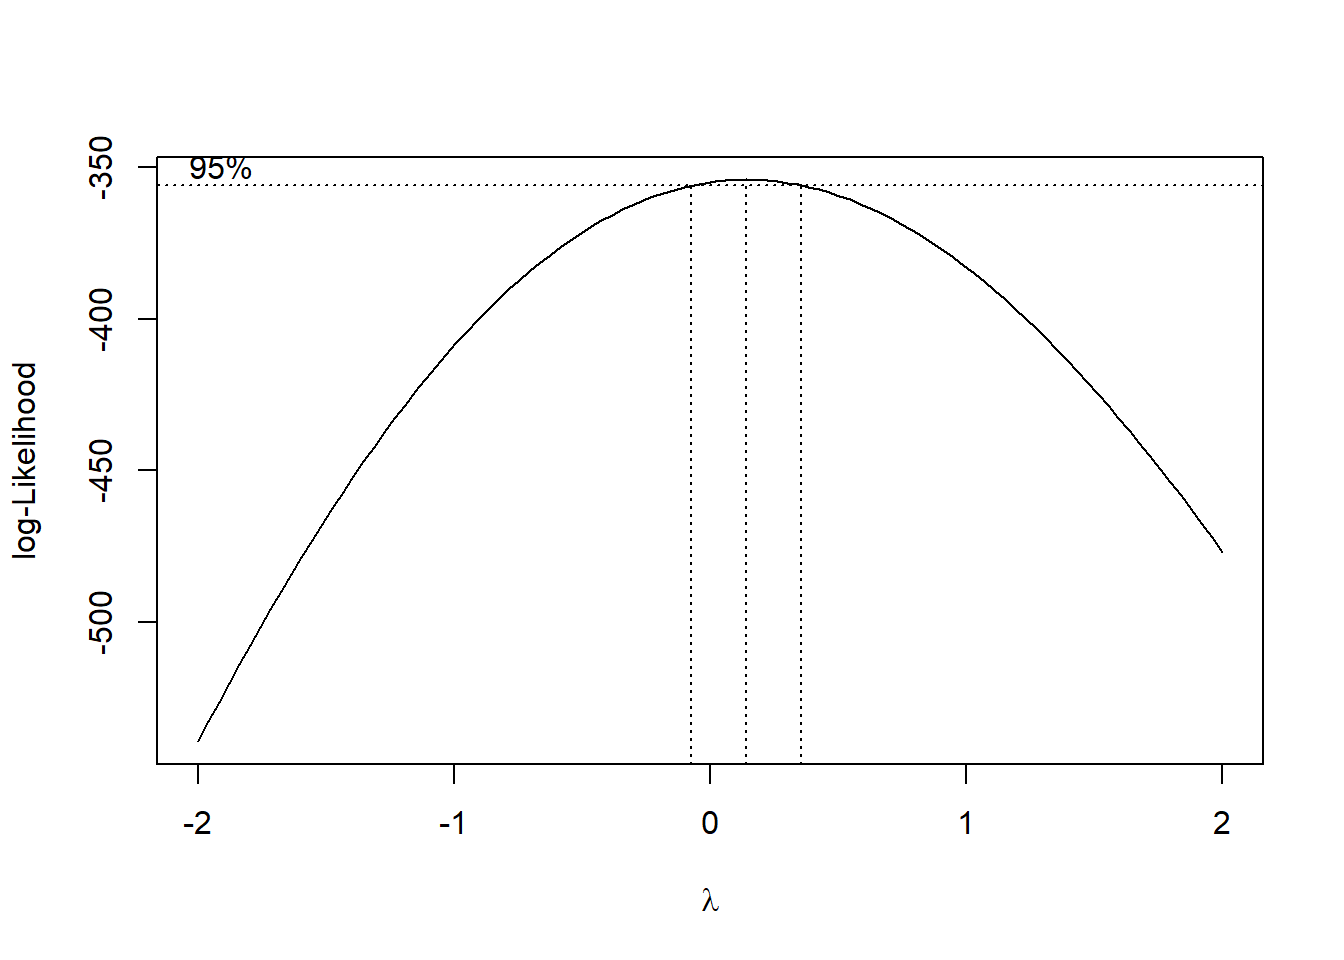
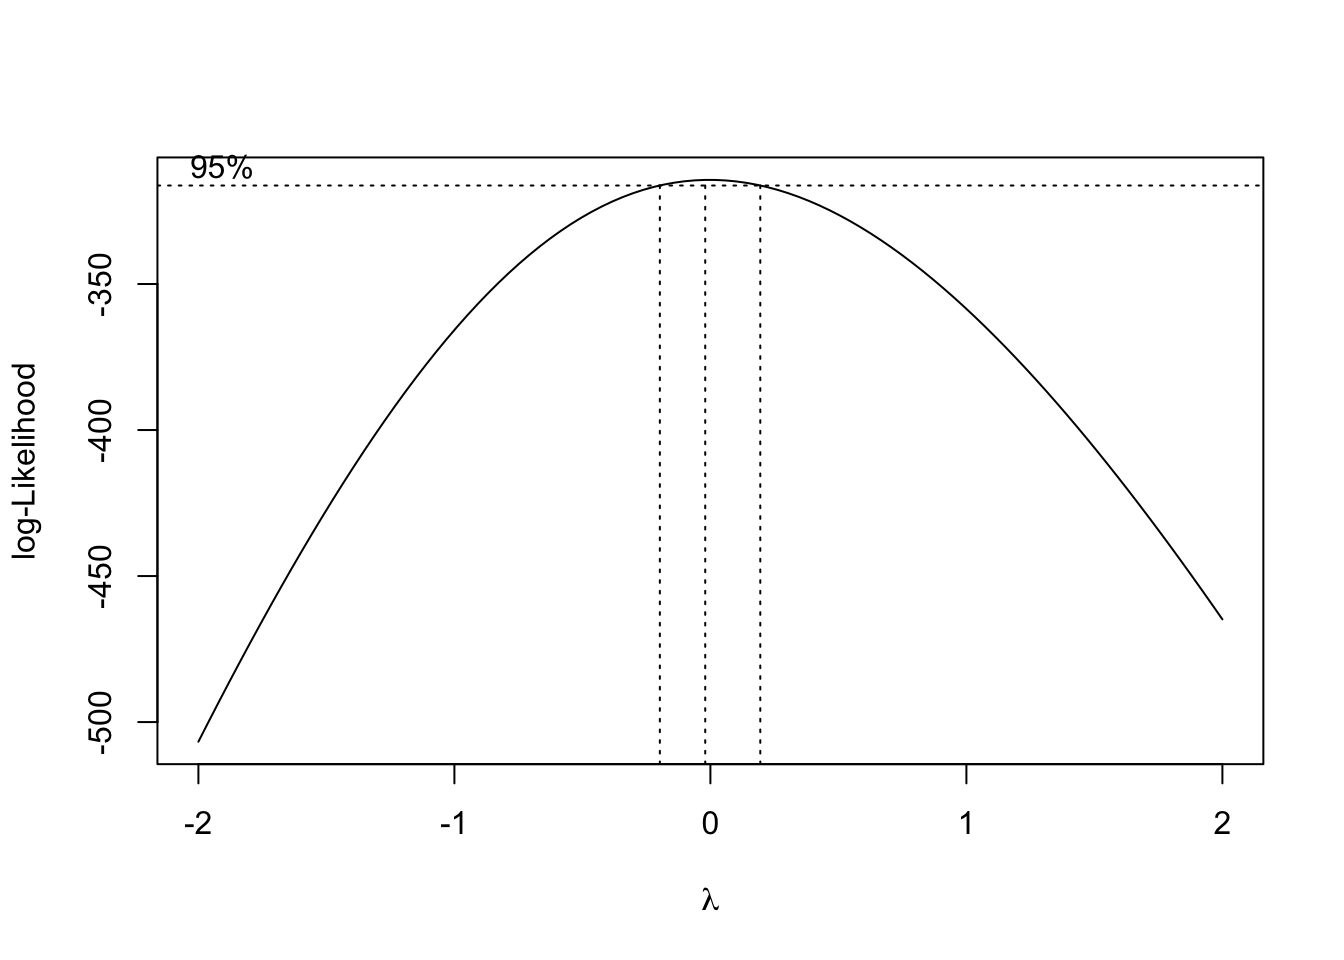
revised crime rate regression analysis, removed lasso, added more diagnostics and discussion

diff --git a/Crime_Rate_Analysis.html b/Crime_Rate_Analysis.html
@@ -11,9 +11,9 @@
 
 
 
-<title>SES Analysis</title>
+<title>Crime Rate Analysis</title>
 
-<script src="site_libs/header-attrs-2.25/header-attrs.js"></script>
+<script src="site_libs/header-attrs-2.24/header-attrs.js"></script>
 <script src="site_libs/jquery-3.6.0/jquery-3.6.0.min.js"></script>
 <meta name="viewport" content="width=device-width, initial-scale=1" />
 <link href="site_libs/bootstrap-3.3.5/css/flatly.min.css" rel="stylesheet" />
@@ -394,7 +394,7 @@ div.tocify {
 
 
 
-<h1 class="title toc-ignore">SES Analysis</h1>
+<h1 class="title toc-ignore">Crime Rate Analysis</h1>
 
 </div>
 
@@ -448,20 +448,17 @@ ses_df = nypd_ses_df |&gt;
 ses_df = ses_df |&gt; merge(neighbor_ses, by = c(&quot;year&quot;, &quot;neighborhood&quot;)) |&gt; 
   mutate(crime_rate = (crime_num/pop_num) * 100,000) |&gt; 
   left_join(neighbor_rent, by = &quot;neighborhood&quot;)</code></pre>
-<div
-id="are-crime-rates-associated-with-poverty-income-and-educational-level"
-class="section level2">
-<h2>Are crime rates associated with poverty, income, and educational
-level?</h2>
-<div
-id="visualizing-potential-association-between-poverty-income-and-educational-level-with-crime-rate"
-class="section level3">
-<h3>Visualizing potential association between poverty, income, and
-educational level with crime rate:</h3>
+<div id="linear-regression" class="section level2">
+<h2>Linear Regression</h2>
+<div id="visualization-of-potential-association" class="section level3">
+<h3>Visualization of potential association</h3>
+<p>We start by visualizing potential association between factors that we
+hypothesize to impact crime rate, these are poverty, unemployment,
+income, and education.</p>
 <pre class="r"><code>eda_plot1 = ses_df |&gt; ggplot(aes(x = pop_pov_pct, y = crime_rate)) +
   geom_point() +  
   geom_smooth(method = &quot;lm&quot;, se = FALSE, color = &quot;blue&quot;) +
-  labs(title = &quot;Population in Poverty vs. Crime Rate&quot;)
+  labs(title = &quot;% below poverty threshold vs. Crime Rate&quot;)
 
 eda_plot2 = ses_df |&gt; ggplot(aes(x = hh_inc_med_adj, y = crime_rate)) +
   geom_point() + 
@@ -471,12 +468,12 @@ eda_plot2 = ses_df |&gt; ggplot(aes(x = hh_inc_med_adj, y = crime_rate)) +
 eda_plot3 = ses_df |&gt; ggplot(aes(x = pop16_unemp_pct, y = crime_rate)) +
   geom_point() + 
   geom_smooth(method = &quot;lm&quot;, se = FALSE, color = &quot;blue&quot;) +
-  labs(title = &quot;Population Unemployment Percentage vs. Crime Rate&quot;)
+  labs(title = &quot;% umployed vs. Crime Rate&quot;)
 
 eda_plot4 = ses_df |&gt; ggplot(aes(x = pop_edu_nohs_pct, y = crime_rate)) +
   geom_point() + 
   geom_smooth(method = &quot;lm&quot;, se = FALSE, color = &quot;blue&quot;) +
-  labs(title = &quot;Population with No High School Education vs. Crime Rate&quot;)
+  labs(title = &quot;% without High School Education vs. Crime Rate&quot;)
 
 gridExtra::grid.arrange(
   eda_plot1, eda_plot2, eda_plot3, eda_plot4, ncol = 2)</code></pre>
@@ -487,11 +484,8 @@ association between unemployment and lack of education with crime rate,
 and a negative association between median household income and crime
 rate.</p>
 </div>
-<div
-id="we-would-like-to-fit-a-linear-model-to-use-these-four-ses-indicators-as-predictors-for-crime-rate-outcome-in-a-specific-neighborhood."
-class="section level3">
-<h3>We would like to fit a linear model to use these four SES indicators
-as predictors for crime rate outcome in a specific neighborhood.</h3>
+<div id="data-transformation-for-mlr" class="section level3">
+<h3>Data transformation for MLR</h3>
 <p>Let’s first visualize the distribution of crime rate:</p>
 <pre class="r"><code>ses_df |&gt; ggplot(aes(x = crime_rate)) +
   geom_histogram(alpha = 0.8, color = &quot;white&quot;) + 
@@ -500,97 +494,158 @@ as predictors for crime rate outcome in a specific neighborhood.</h3>
     y = &quot;Count&quot;,
     title = &quot;Distribution of Crime Rate by Neighborhoods&quot;)</code></pre>
 <p><img src="Crime_Rate_Analysis_files/figure-html/unnamed-chunk-3-1.png" width="672" /></p>
-<p>We can use Box-Cox Transformation to transform the data for linear
-fit</p>
-<pre class="r"><code>initial_fit = lm(crime_rate ~ pop_pov_pct + hh_inc_med_adj + pop16_unemp_pct + pop_edu_nohs_pct, data = ses_df)
+<p>Since the data is slightly right-skewed, we can use the Box-Cox
+Transformation to transform the data for linear fit</p>
+<pre class="r"><code>initial_fit = lm(crime_rate ~ pop_pov_pct + hh_inc_med_adj + pop16_unemp_pct + pop_edu_nohs_pct + pop_race_asian_pct + pop_race_black_pct + pop_race_hisp_pct + pop_race_white_pct + pop_foreign_pct, data = ses_df)
 
 MASS::boxcox(initial_fit)</code></pre>
 <p><img src="Crime_Rate_Analysis_files/figure-html/unnamed-chunk-4-1.png" width="672" /></p>
 <p>From the Box-Cox Transformation, log-transformation seems to be the
 best option. We will perform a log transformation on crime rate and use
 this as the predictor.</p>
+</div>
+<div id="model-fitting" class="section level3">
+<h3>Model fitting</h3>
+<p>To achieve the best model, we will use a “manual” backward
+elimination approach: first by fitting a MLR with all possible factors,
+and gradually remove factors that are not significant.</p>
 <pre class="r"><code>ses_df = ses_df |&gt; mutate(
   log_crime_rate = log(crime_rate)
 )
 
-log_fit = lm(log_crime_rate ~ pop_pov_pct + hh_inc_med_adj + pop16_unemp_pct + pop_edu_nohs_pct, data = ses_df)
+log_fit = lm(log_crime_rate ~ pop_pov_pct + hh_inc_med_adj + pop16_unemp_pct + pop_edu_nohs_pct + pop_race_asian_pct + pop_race_black_pct + pop_race_hisp_pct + pop_race_white_pct + pop_foreign_pct, data = ses_df)
 
-broom::tidy(log_fit)</code></pre>
-<pre><code>## # A tibble: 5 × 5
-##   term                estimate  std.error statistic  p.value
-##   &lt;chr&gt;                  &lt;dbl&gt;      &lt;dbl&gt;     &lt;dbl&gt;    &lt;dbl&gt;
-## 1 (Intercept)       0.421      0.203          2.07  3.94e- 2
-## 2 pop_pov_pct       4.64       0.483          9.61  2.27e-18
-## 3 hh_inc_med_adj    0.00000550 0.00000140     3.92  1.19e- 4
-## 4 pop16_unemp_pct   0.560      0.749          0.748 4.55e- 1
-## 5 pop_edu_nohs_pct -0.439      0.493         -0.890 3.74e- 1</code></pre>
-<p>From the result of the MLR, it is observed that all 4 predictors are
-significant in terms of association with the crime rate outcome. We can
-run a regression diagnostic by plotting residuals for each borough:</p>
+summary(log_fit)</code></pre>
+<pre><code>## 
+## Call:
+## lm(formula = log_crime_rate ~ pop_pov_pct + hh_inc_med_adj + 
+##     pop16_unemp_pct + pop_edu_nohs_pct + pop_race_asian_pct + 
+##     pop_race_black_pct + pop_race_hisp_pct + pop_race_white_pct + 
+##     pop_foreign_pct, data = ses_df)
+## 
+## Residuals:
+##      Min       1Q   Median       3Q      Max 
+## -0.73689 -0.19577 -0.00971  0.17691  1.09847 
+## 
+## Coefficients:
+##                      Estimate Std. Error t value Pr(&gt;|t|)    
+## (Intercept)         5.922e-01  1.018e+00   0.582  0.56137    
+## pop_pov_pct         5.315e+00  5.653e-01   9.403  &lt; 2e-16 ***
+## hh_inc_med_adj      9.872e-06  1.457e-06   6.775 1.28e-10 ***
+## pop16_unemp_pct    -1.384e+00  7.481e-01  -1.851  0.06567 .  
+## pop_edu_nohs_pct   -1.716e+00  6.400e-01  -2.681  0.00793 ** 
+## pop_race_asian_pct -3.306e-01  1.041e+00  -0.318  0.75118    
+## pop_race_black_pct  1.300e-01  1.007e+00   0.129  0.89739    
+## pop_race_hisp_pct   2.961e-01  9.690e-01   0.306  0.76023    
+## pop_race_white_pct -1.050e+00  9.846e-01  -1.067  0.28741    
+## pop_foreign_pct     2.877e-02  2.901e-01   0.099  0.92108    
+## ---
+## Signif. codes:  0 &#39;***&#39; 0.001 &#39;**&#39; 0.01 &#39;*&#39; 0.05 &#39;.&#39; 0.1 &#39; &#39; 1
+## 
+## Residual standard error: 0.2986 on 206 degrees of freedom
+## Multiple R-squared:  0.5819, Adjusted R-squared:  0.5636 
+## F-statistic: 31.86 on 9 and 206 DF,  p-value: &lt; 2.2e-16</code></pre>
+<p>According to the MLR fit result, three factors are significant:
+percentage of population below poverty line, median household income,
+and percentage of population above 25 years old without high school
+degree.</p>
+<p>We will fine tune our model based on this three factors.</p>
+<pre class="r"><code>log_fit_optimized = lm(log_crime_rate ~ pop_pov_pct + hh_inc_med_adj + pop_edu_nohs_pct, data = ses_df)
+
+summary(log_fit_optimized)</code></pre>
+<pre><code>## 
+## Call:
+## lm(formula = log_crime_rate ~ pop_pov_pct + hh_inc_med_adj + 
+##     pop_edu_nohs_pct, data = ses_df)
+## 
+## Residuals:
+##      Min       1Q   Median       3Q      Max 
+## -1.06232 -0.20232 -0.00345  0.23603  1.05242 
+## 
+## Coefficients:
+##                    Estimate Std. Error t value Pr(&gt;|t|)    
+## (Intercept)       4.521e-01  1.982e-01   2.281 0.023556 *  
+## pop_pov_pct       4.761e+00  4.546e-01  10.473  &lt; 2e-16 ***
+## hh_inc_med_adj    5.377e-06  1.391e-06   3.866 0.000147 ***
+## pop_edu_nohs_pct -4.502e-01  4.927e-01  -0.914 0.361884    
+## ---
+## Signif. codes:  0 &#39;***&#39; 0.001 &#39;**&#39; 0.01 &#39;*&#39; 0.05 &#39;.&#39; 0.1 &#39; &#39; 1
+## 
+## Residual standard error: 0.3555 on 212 degrees of freedom
+## Multiple R-squared:  0.3901, Adjusted R-squared:  0.3814 
+## F-statistic: 45.19 on 3 and 212 DF,  p-value: &lt; 2.2e-16</code></pre>
+<p>As we removed many insignificant predictors, education factor lost
+its significance as well. Our final model will only include two
+predictors: percentage of population below poverty line and median
+household income.</p>
+<pre class="r"><code>log_fit_optimized = lm(log_crime_rate ~ pop_pov_pct + hh_inc_med_adj, data = ses_df)
+
+summary(log_fit_optimized)</code></pre>
+<pre><code>## 
+## Call:
+## lm(formula = log_crime_rate ~ pop_pov_pct + hh_inc_med_adj, data = ses_df)
+## 
+## Residuals:
+##      Min       1Q   Median       3Q      Max 
+## -1.05481 -0.20115 -0.01538  0.23201  1.07555 
+## 
+## Coefficients:
+##                 Estimate Std. Error t value Pr(&gt;|t|)    
+## (Intercept)    3.434e-01  1.585e-01   2.167   0.0314 *  
+## pop_pov_pct    4.644e+00  4.358e-01  10.654  &lt; 2e-16 ***
+## hh_inc_med_adj 6.049e-06  1.180e-06   5.127 6.59e-07 ***
+## ---
+## Signif. codes:  0 &#39;***&#39; 0.001 &#39;**&#39; 0.01 &#39;*&#39; 0.05 &#39;.&#39; 0.1 &#39; &#39; 1
+## 
+## Residual standard error: 0.3554 on 213 degrees of freedom
+## Multiple R-squared:  0.3876, Adjusted R-squared:  0.3819 
+## F-statistic: 67.42 on 2 and 213 DF,  p-value: &lt; 2.2e-16</code></pre>
+<p>Both of these 2 predictors are significant. We can also check for
+multicollinearity of our optimized model</p>
+<pre class="r"><code>performance::check_collinearity(log_fit_optimized)</code></pre>
+<pre><code>## # Check for Multicollinearity
+## 
+## Low Correlation
+## 
+##            Term  VIF   VIF 95% CI Increased SE Tolerance Tolerance 95% CI
+##     pop_pov_pct 2.38 [1.97, 2.97]         1.54      0.42     [0.34, 0.51]
+##  hh_inc_med_adj 2.38 [1.97, 2.97]         1.54      0.42     [0.34, 0.51]</code></pre>
+<p>Multicollinearity is low between our two predictors and is within the
+acceptable range.</p>
+</div>
+</div>
+<div id="mlr-model-diagnostics" class="section level2">
+<h2>MLR model diagnostics</h2>
+<p>We can run a regression diagnostic by plotting residuals for each
+borough:</p>
 <pre class="r"><code>ses_df |&gt; 
-  modelr::add_residuals(log_fit) |&gt; 
+  modelr::add_residuals(log_fit_optimized) |&gt; 
   ggplot(aes(x = borough, y = resid)) + geom_violin() + 
   labs(title = &quot;MLR residuals for each borough&quot;, 
        xlab = &quot;Borough&quot;, 
        ylab = &quot;Residuals&quot;)</code></pre>
-<p><img src="Crime_Rate_Analysis_files/figure-html/unnamed-chunk-6-1.png" width="672" /></p>
+<p><img src="Crime_Rate_Analysis_files/figure-html/unnamed-chunk-9-1.png" width="672" /></p>
 <p>We can further inspect our model by plotting residuals against fitted
 values</p>
 <pre class="r"><code>ses_df |&gt; 
-  modelr::add_residuals(log_fit) |&gt; 
-  modelr::add_predictions(log_fit) |&gt; 
+  modelr::add_residuals(log_fit_optimized) |&gt; 
+  modelr::add_predictions(log_fit_optimized) |&gt; 
   ggplot(aes(x = pred, y = resid, color = borough)) + geom_point() +
   labs(title = &quot;MLR residuals against fitted value&quot;, 
        xlab = &quot;Residuals&quot;, 
        ylab = &quot;Fitted Values&quot;)</code></pre>
-<p><img src="Crime_Rate_Analysis_files/figure-html/unnamed-chunk-7-1.png" width="672" /></p>
+<p><img src="Crime_Rate_Analysis_files/figure-html/unnamed-chunk-10-1.png" width="672" /></p>
 <p>From the two diagnostics plots above, we can see that the residuals
 are roughly centered around zero, and are relatively normal. This would
 indicate that our model is a relatively good fit.</p>
+<div id="discussion" class="section level3">
+<h3>Discussion</h3>
+<p>From this model, we conclude that the crime rate for a specific
+neighborhood is highly associated with the percentage of people below
+poverty line, and the median household income. From diagnostic analysis,
+the multicollinearity between the 2 factors are low, and our model is a
+relatively good fit by inspecting residuals and fitted values.</p>
 </div>
-<div
-id="apply-lasso-regression-to-fine-tune-the-prediction-model-and-remove-predictors-that-are-not-influential-enough."
-class="section level3">
-<h3>Apply Lasso Regression to fine tune the prediction model and remove
-predictors that are not influential enough.</h3>
-<pre class="r"><code># Finding the best lambda
-cv_model &lt;- cv.glmnet(data.matrix(ses_df[, c(&#39;pop_pov_pct&#39;, &#39;hh_inc_med_adj&#39;, &#39;pop16_unemp_pct&#39;, &#39;pop_edu_nohs_pct&#39;)]), ses_df$crime_rate, alpha = 1)
-
-best_lambda &lt;- cv_model$lambda.min
-
-# Conducting the Lasso fit 
-lasso_fit = glmnet(data.matrix(ses_df[, c(&#39;pop_pov_pct&#39;, &#39;hh_inc_med_adj&#39;, &#39;pop16_unemp_pct&#39;, &#39;pop_edu_nohs_pct&#39;)]), ses_df$crime_rate, alpha = 1, lambda = best_lambda)
-
-coef(lasso_fit) </code></pre>
-<pre><code>## 5 x 1 sparse Matrix of class &quot;dgCMatrix&quot;
-##                             s0
-## (Intercept)      -1.630759e+00
-## pop_pov_pct       2.770070e+01
-## hh_inc_med_adj    3.370468e-05
-## pop16_unemp_pct   2.940526e+00
-## pop_edu_nohs_pct -2.468178e+00</code></pre>
-<p>TO DO: add diagnostics and compare with MLR</p>
-<p>Visualizing trend: are crime rates associated with racial factors?
-(delete??)</p>
-<pre class="r"><code>eda_plot5 = ses_df |&gt; ggplot(aes(x = pop_race_asian_pct, y = crime_rate)) +
-  geom_point() +  labs(title = &quot;Asian% in Poverty vs. Crime Rate&quot;)
-
-eda_plot6 = ses_df |&gt; ggplot(aes(x = pop_race_black_pct, y = crime_rate)) +
-  geom_point() +  labs(title = &quot;Black% in Poverty vs. Crime Rate&quot;)
-
-eda_plot7 = ses_df |&gt; ggplot(aes(x = pop_race_hisp_pct, y = crime_rate)) +
-  geom_point() +  labs(title = &quot;Hispanic% in Poverty vs. Crime Rate&quot;)
-
-eda_plot8 = ses_df |&gt; ggplot(aes(x = pop_race_white_pct, y = crime_rate)) +
-  geom_point() +  labs(title = &quot;White% in Poverty vs. Crime Rate&quot;)
-
-gridExtra::grid.arrange(
-  eda_plot5, eda_plot6, eda_plot7, eda_plot8, ncol = 2)</code></pre>
-<p><img src="Crime_Rate_Analysis_files/figure-html/unnamed-chunk-9-1.png" width="672" /></p>
-</div>
-</div>
-<div id="discussion" class="section level2">
-<h2>Discussion</h2>
 </div>
 
 
